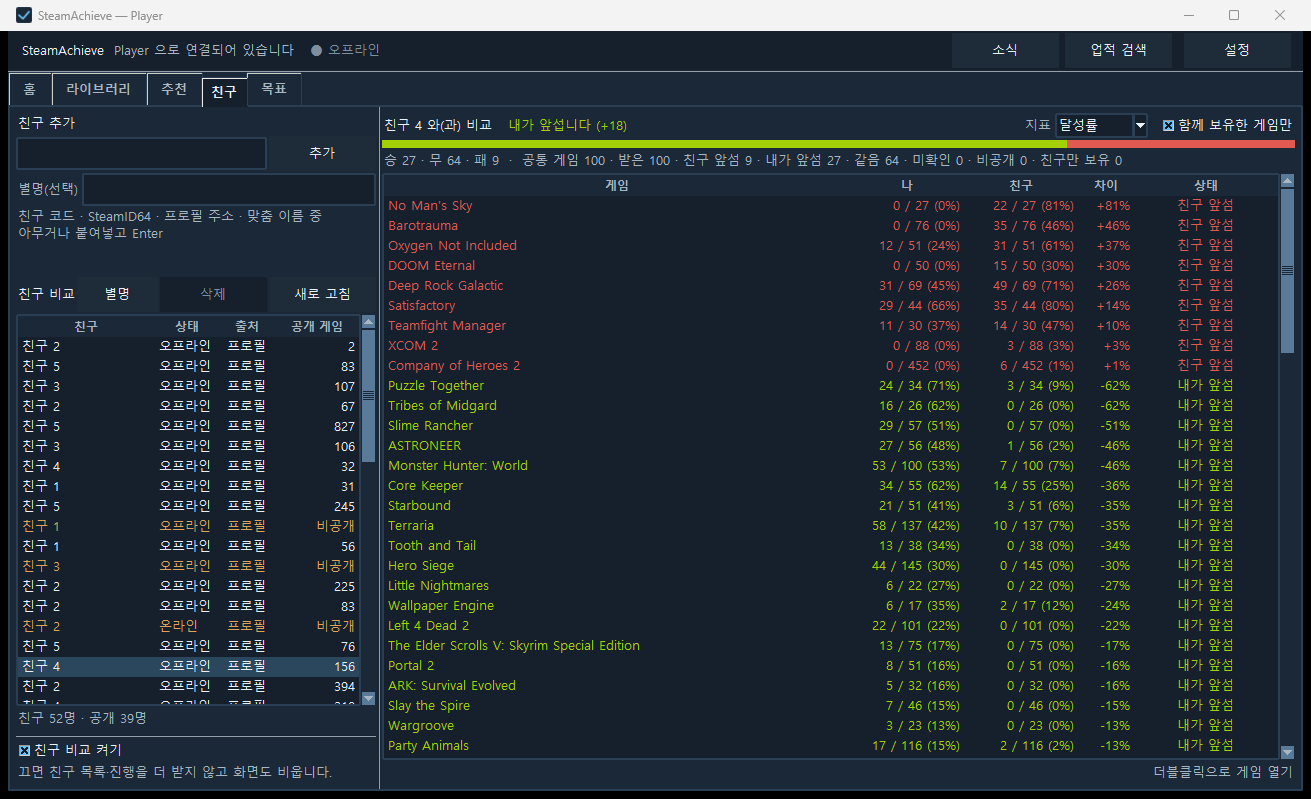
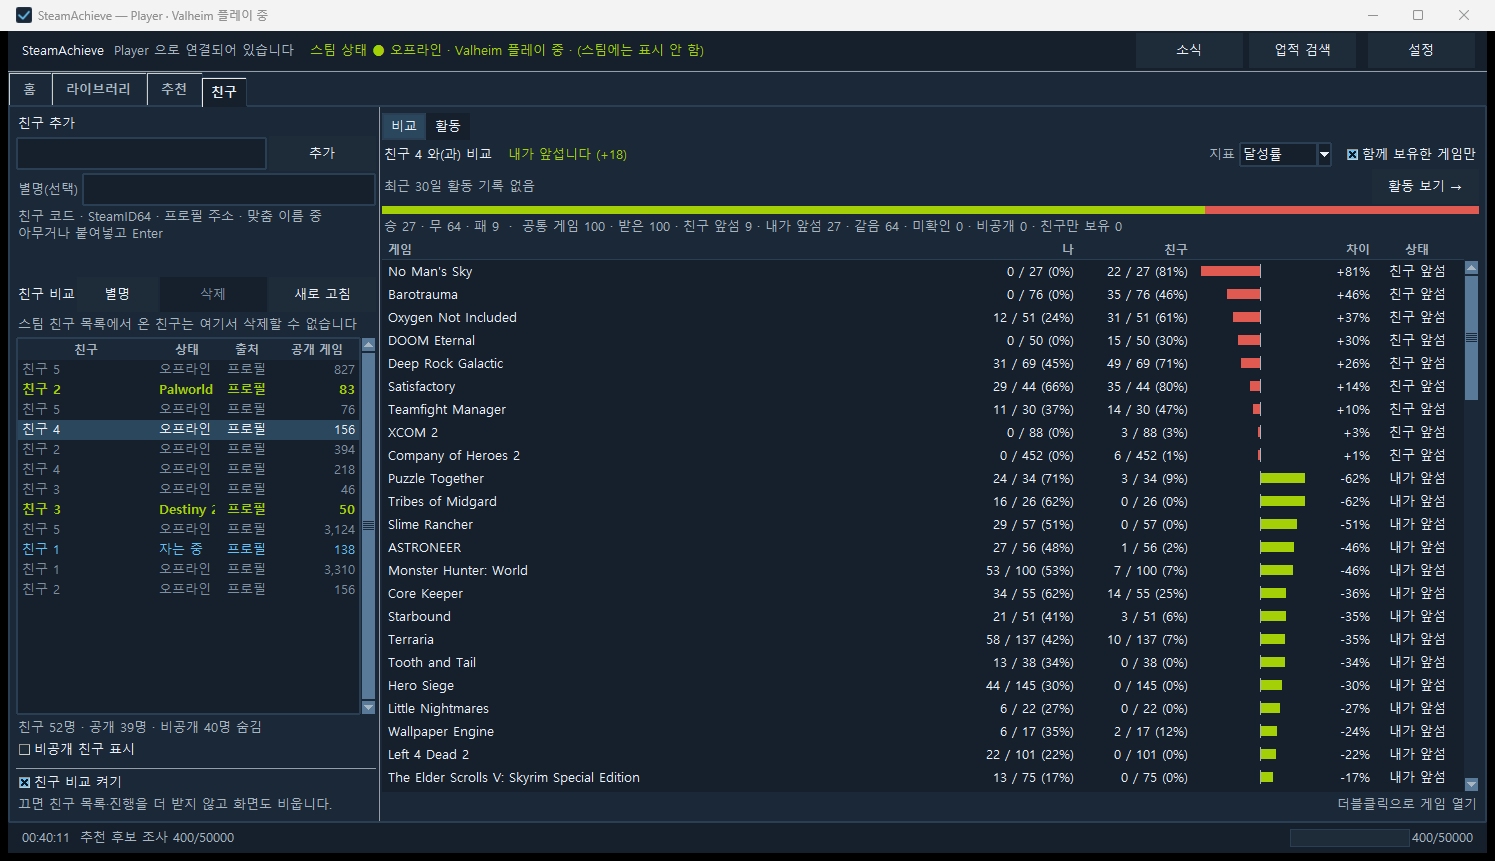
docs: v0.5.13 배포 문서

Changed region(s): [[0.0, 0.0, 1.0, 0.9912]]

diff --git a/CHANGELOG.md b/CHANGELOG.md
@@ -2,6 +2,45 @@
 
 형식은 [Keep a Changelog](https://keepachangelog.com/ko/1.1.0/) 를 따르고, 버전은 [SemVer](https://semver.org/lang/ko/) 입니다.
 
+## [0.5.13] - 2026-09-14 — 친구 활동 · 한눈에 읽히는 비교표 · 더 빠른 친구 비교
+
+### 추가
+- **친구 탭에 "활동" 보기가 생겼습니다.** 친구 탭 오른쪽 위 **[비교 | 활동]** 으로 바꿉니다. 비교가 "누적으로 누가 앞서나"를 말하는 데 비해, 활동은 **친구가 요즘 무엇을 하고 있나**를 말합니다. 대상은 왼쪽 친구 목록에서 고르고, 맨 위 "모든 친구"를 고르면 전체를 봅니다. 친구 비교와 같은 스위치(옵트인)를 쓰고, 켜기 전에는 아무 호출도 나가지 않습니다.
+  - **최근 딴 업적** — 친구가 업적을 **딴 시각**까지 최신순으로 봅니다. 줄마다 **게임 아이콘과 업적 아이콘**이 함께 붙어, 어떤 게임에서 어떤 업적을 땄는지 그림으로 바로 읽힙니다(글자만 있는 표는 눈으로 짝지어야 했습니다 — 사용자 요청). 아이콘이 붙은 만큼 줄이 커져 한 번에 보이는 개수는 줄어듭니다. 줄을 누르면 그 게임의 업적 화면이 열립니다. 대상은 "모든 친구" 또는 한 명이고, 기간은 최근 7일·30일·90일에서 고릅니다. 제가 가지지 않은 게임(친구만 하는 게임)의 아이콘·이름도 함께 받아 채웁니다.
+  - **지금 하는 중** — 지금 게임을 켜 둔 친구와 그 게임. 줄을 더블클릭하면 그 게임의 업적 화면이 열립니다.
+  - **업적을 많이 딴 게임** — 그 기간에 업적이 어느 게임에서 나왔는지 게임별로 모아, 업적 수·기여한 친구 수와 함께 보여 줍니다. "친구들이 요즘 주로 뭘 하는지"가 한눈에 들어옵니다.
+  - **최근 2주 플레이** — 한 명을 고르면 그 친구가 최근 2주에 플레이한 게임과 시간을 함께 보여 줍니다.
+  - **모으는 방식.** 탭을 열었을 때 보여 줄 것이 없으면 한 번 자동으로, 그 뒤에는 [새로 고침]으로 모읍니다. 친구당 1호출로 "최근 2주에 무엇을 했는지"를 먼저 확인하고, 그중 많이 한 게임 순으로 업적을 받습니다 — 보유 게임을 전부 훑지 않습니다(한 바퀴 최대 100호출, 하루 한도의 0.1%). 친구 탭에서 친구를 골라 비교할 때 받아 온 자료도 같은 곳에 쌓입니다(그때는 추가 호출 0). 기록은 `friend_activity.json` 에 친구당 최근 90일까지 쌓이고, 캐시를 비워도 사라지지 않으며, 친구를 목록에서 지우면 그 친구 몫도 함께 지워집니다.
+- **친구 탭 비교 화면에 최근 활동 한 줄과 [활동 보기 →] 가 붙었습니다.** "최근 30일 업적 12개 · 주로 ELDEN RING" 처럼 요약되고, 누르면 같은 탭의 활동 보기에서 그 친구가 선택된 채로 열립니다.
+- **지금 게임 중인 친구가 목록에서 눈에 띕니다.** 상태 칸에 게임 이름이 적혀 있어도 친구가 수십 명이면 훑어야 찾았습니다. 이제 그 줄이 초록색 굵은 글자가 됩니다(색만으로 말하지 않으므로 고른 줄에서도 굵기가 남습니다).
+- **라이브러리 왼쪽 게임 목록을 접을 수 있습니다(사용자 요청).** 도구줄 맨 앞 **[◀ 목록]** 을 누르면 목록이 접히고 커버 격자·업적 카드가 그 폭을 받습니다. 다시 누르면(**[▶ 목록]**) 보던 선택·검색어·정렬 그대로 펼쳐집니다. 접은 상태는 다음 실행에도 유지됩니다.
+
+### 바뀜
+- **친구 업적을 훨씬 빨리 받습니다(사용자 지적).** 친구 한 명을 고르면 공통 게임의 업적을 게임마다 받아야 하는데, 한 번에 하나씩만(호출 사이 0.25초) 받아 공통 게임이 650개인 친구는 처음 비교에 약 2분 40초가 걸렸습니다(실측). 이제 **동시에 4개씩** 받습니다 — 호출 수는 그대로이고, 스팀이 잠시 막으면(429) 자동으로 속도를 늦춥니다. 내 쪽 진행을 채울 때 대기를 두 번 겹쳐 두던 것도 없앴습니다.
+- **친구 업적을 뒤에서 조금씩 미리 받아 둡니다(사용자 요청).** 다른 일이 없을 때만 지금 게임 중인 친구 → 받을 게임이 적은 친구 순으로 받고, 친구를 고르거나 다른 조회가 시작되면 곧바로 비켜 줍니다. 받아 둔 친구는 고르는 즉시 비교 결과가 나옵니다. 한 번 받은 게임은 일주일 보관하고, 한 번 실행에 2,000호출(하루 한도의 2%)까지만 씁니다.
+- **받는 동안에는 비교 결과를 가립니다(사용자 지적).** 반쯤 받은 자료로 "내가 앞섭니다" 같은 판정과 표가 보여 오해를 샀습니다. 이제 받는 중에는 진행 막대와 "OO 의 업적 받는 중 120/650 · 약 30초 남음"만 보이고, 내 쪽 확인까지 끝나면 판정·점수·표를 한 번에 보여 줍니다.
+- **활동은 따로 탭이 아니라 친구 탭 안의 보기입니다.** 두 탭이 대상(친구)이 같아 친구를 두 번 골라야 했습니다. 탭은 홈 · 라이브러리 · 추천 · 친구 네 개가 되었고, 마지막으로 본 보기([비교]/[활동])는 다음 실행에도 유지됩니다. 뒤로가기(Alt+←)도 활동 보기와 고른 대상까지 되돌립니다.
+- **친구 비교표가 행마다 빨강·초록으로 칠해지지 않습니다.** 거의 모든 줄이 색으로 덮여 표가 색 덩어리 둘로 보이고 정작 숫자가 묻혔습니다. 이제 판정은 **차이 칸의 색 막대**가 말합니다 — 가운데 선에서 **빨강이 왼쪽으로** 뻗으면 친구가 앞섬, **초록이 오른쪽으로** 뻗으면 내가 앞섬, 길이가 차이입니다(부호 있는 수치도 함께). 처음에는 표 칸에 색을 칠할 수 없어 막대를 글자(`███│░░░`)로 흉내 냈는데 오히려 읽기 힘들어(사용자 지적), 비교표를 직접 그리는 표로 바꿔 기획 문서의 그림 그대로 보이게 했습니다. 머리글 정렬·긴 이름 말줄임과 툴팁·더블클릭으로 게임 열기·오른쪽 클릭 메뉴는 그대로입니다. 창이 좁으면 막대가 짧아지고, 더 좁으면 수치만 남습니다.
+- **친구 목록에 "비공개 친구 표시" 체크박스가 생겼습니다(사용자 요청).** 게임 목록이 비공개인 친구와, 게임은 공개지만 업적이 비공개로 확인된 친구는 겨룰 수 없어 **기본으로 숨깁니다**. 몇 명을 숨겼는지는 목록 아래 개수 줄에 "비공개 N명 숨김"으로 보이고, 체크하면 다시 다 보입니다(선택은 다음 실행에도 유지). 업적 비공개는 받아 봐야 알 수 있어, 친구 목록을 받으면 **친구마다 게임 하나의 업적을 미리 확인**합니다(친구당 1호출, 일주일 보관이라 다음부터는 호출 0). 확인하는 동안에는 개수 줄에 "업적 공개 확인 중 N/M"이 보이고, 끝나면 업적 비공개 친구도 처음부터 걸러집니다 — 한 명씩 골라 봐야 숨겨지던 1차 구현의 아이러니를 고쳤습니다(사용자 지적). 네트워크 오류로 확인하지 못한 친구는 숨기지 않고 다음에 다시 확인합니다. 지금 비교 중인 친구는 숨김이 켜져도 목록에 남습니다.
+- **친구 목록에서 게임 중 · 온라인 · 오프라인이 색으로 구분됩니다(사용자 요청).** 게임 중은 초록 굵은 글자, 온라인(자리 비움 등 포함)은 파랑, 오프라인은 흐린 회색입니다. 상태 칸의 글자도 함께 보입니다.
+- **활동 보기의 "최근 딴 업적" 줄 맨 앞에 친구 프로필 사진과 이름이 붙습니다(사용자 요청).** 그 뒤로 게임 아이콘 · 업적 아이콘 · 업적 이름이 이어져 "누가 · 어느 게임에서 · 무엇을" 순서로 읽힙니다. 한 명을 골랐을 때는 모든 줄이 같은 사람이라 이 칸을 접습니다.
+- **확인하지 못한 게임(비공개·미확인)은 표 아래 한 줄로 접힙니다.** "확인 못 한 게임 N개 [펼치기]" 를 누르면 표 끝에 붙습니다. 점수·판정·요약은 접기와 상관없이 전부 셉니다. 요약 줄에 붙던 긴 비공개 안내문("스팀 웹 API 는 전체 공개만…")은 그 줄의 **[왜 안 보이나요?]** 에 마우스를 올리거나 누르면 보입니다.
+- **꺼진 버튼도 버튼 모양이 보입니다.** 설정 창의 오류 기록 버튼처럼 지금 누를 수 없는 버튼이 글자만 흐린 줄로 보였습니다 — 이제 흐린 테두리가 남습니다.
+
+### 수정
+- **마우스를 올리면 뜨는 툴팁이 프로그램 창 밖으로 나가던 문제(사용자 신고).** 화면 크기만 보고 자리를 잡아, 창이 화면 가운데 있으면 표 오른쪽·아래 끝에서 툴팁이 창 밖 바탕화면에 걸쳤습니다. 이제 업적 카드·목록·표·안내 링크의 툴팁이 모두 프로그램 창 안에 뜹니다(넘치면 커서 반대편으로 뒤집고, 그래도 넘치면 창 가장자리에 맞춥니다).
+- **활동 화면에 친구가 딴 업적이 안 보이던 문제(사용자 신고).** "지금 하는 중"만 갱신되고 타임라인이 비어 있었습니다. 두 가지가 겹쳐 있었습니다.
+  - 친구 진행 정보를 **친구 탭에서 친구를 하나씩 골라야** 받아 오는 구조여서, 활동 탭만 열면 아무것도 모이지 않았습니다. 이제 **활동 탭이 스스로 모읍니다** — 탭을 열었을 때 보여 줄 것이 없으면 한 번(세션당 1회) 자동으로, 그 뒤에는 [새로 고침]으로 모읍니다. 진행은 상태 줄에 "친구 활동을 모으는 중 12/52"로 보입니다.
+  - 모으는 방식은 **친구가 최근 2주에 실제로 플레이한 게임만** 봅니다. 친구당 1호출로 "무엇을 했는지"를 먼저 확인하고, 그중 많이 한 게임 순으로 업적을 받습니다(한 바퀴 최대 100호출, 하루 한도의 0.1%). 보유 게임을 전부 훑지 않습니다.
+  - 이 앱을 업데이트하기 **전에** 받아 둔 친구 업적 정보에는 달성 시각이 없었는데, 7일 캐시라 그대로 재사용되고 있었습니다. 이제 시각이 빠진 항목만 다시 받습니다(달성이 없는 게임·비공개 친구는 그대로 두어 호출을 낭비하지 않습니다).
+- **친구만 가진 게임의 업적이 "ACH_202" 처럼 보이던 문제.** 제가 가지지 않은 게임은 업적 이름 정보가 없어서 내부 이름이 그대로 보였습니다. 이제 그 게임의 업적 이름을 받아 채웁니다(게임당 1회, 30일 보관).
+
+- **상대가 업적을 비공개로 둔 친구를 "호각입니다" 라고 적던 문제(사용자 지적).** 비교할 수 있는 게임이 하나도 없으면 승 0 · 패 0 이 되는데, 그 0 대 0 을 무승부로 읽어 "대등하다"는 뜻이 되어 버렸습니다. 겨뤄서 비긴 것과 **겨루지 못한 것**은 다른 결과입니다. 이제 이렇게 말합니다.
+  - 상대 업적이 비공개라 막힌 경우 → **"비교할 수 없습니다 · 친구 업적이 비공개"**
+  - 아직 진행을 받는 중이라 결론이 없는 경우 → **"아직 비교할 자료가 없습니다"** (기다리면 채워지는 상태와 영영 못 보는 상태를 구분합니다)
+  - 같은 이유로 이때는 "승 0 · 무 0 · 패 0" 점수 줄도 적지 않습니다 — 겨뤄서 나온 결과처럼 읽혔습니다. 그 자리는 "비공개 N개" 요약과 왜 막혔는지 안내가 대신 말합니다.
+  - 양쪽 진행을 다 아는 진짜 동점은 그대로 "호각입니다" 입니다.
+
 ## [0.5.12] - 2026-09-12 — 취향으로 고르는 다음 게임
 
 ### 추가

diff --git a/README.md b/README.md
@@ -22,7 +22,8 @@
 - **홈** — 전체 진행도, 마일스톤, 이번 달·최근 30일·연속 달성, 달성 추이(연도·월·요일·태그·게임), 추천 목표 게임, 최근 달성·희귀 업적·북마크(업적 설명·전역 달성률·진행 수치까지).
 - **라이브러리** — 게임별 업적 카드/목록, 정렬·필터, 다음으로 쉬운 업적, 메모·북마크, 가이드·통계 바로가기, 업적 전역 검색(Ctrl+F), 진행형 업적의 진행도("8,988 / 10,000").
 - **추천** — 아직 없는 게임을 업적 기준으로(프리셋 3종 × 정렬 8종, 태그·가격 필터, 보유 게임 취향으로 개인화, 스토어 국가별 통화).
-- **친구** (옵트인) — 친구 코드·프로필 주소로 친구를 넣고 공통 게임의 진행률을 나란히 비교. 게임 화면에는 그 게임을 가진 친구들의 순위.
+- **친구** (옵트인) — 친구 코드·프로필 주소로 친구를 넣고 공통 게임의 진행률을 나란히 비교. 차이는 색 막대로(친구가 앞서면 빨강이 왼쪽, 내가 앞서면 초록이 오른쪽), 겨룰 수 없는 비공개 친구는 기본으로 숨김. 게임 화면에는 그 게임을 가진 친구들의 순위.
+- **친구 › 활동 보기** (옵트인) — 친구가 **언제 어떤 업적을 땄는지**, 지금 무슨 게임을 하고 있는지, 어느 게임에서 업적을 주로 땄는지. 고른 친구의 최근 2주 플레이까지.
 - 달성 알림, 월간 목표, 한국어·영어 UI, 글자 크기 3단계, 새 버전 확인(옵트인).
 - 첫 실행은 3단계 위저드가 안내합니다(키 발급 → 계정 확인 → 게임 세부 정보 공개 확인).
 
@@ -92,7 +93,8 @@ Every release ships with `SHA256SUMS.txt`. Verify with PowerShell: `Get-FileHash
 - **Home** — overall progress, milestones, this month / last 30 days / streak, trends (year, month, weekday, tag, game), next-goal games, recent and rarest unlocks, bookmarks.
 - **Library** — per-game achievement cards/list, sort and filters, easiest next achievement, notes and bookmarks, guide/stats shortcuts, global achievement search (Ctrl+F), in-achievement progress ("8,988 / 10,000").
 - **Discover** — games you don't own yet, ranked by achievements (3 presets × 8 sorts, tag and price filters, personalized by your library, store-country currency).
-- **Friends** (opt-in) — add friends by friend code or profile URL and compare progress on games you both own; per-game friend ranking on the game screen.
+- **Friends** (opt-in) — add friends by friend code or profile URL and compare progress on games you both own, with a colored difference bar (red to the left = friend ahead, green to the right = you lead); friends whose achievements are private are hidden by default. Per-game friend ranking on the game screen.
+- **Friends › Activity view** (opt-in) — **when** your friends unlocked which achievements, what they are playing right now, and which games their achievements came from, plus the last two weeks of playtime for the friend you pick.
 - Unlock notifications, monthly goal, Korean/English UI, three text sizes, update check (opt-in).
 - A 3-step wizard guides the first run (key → account → game-details visibility).
 
